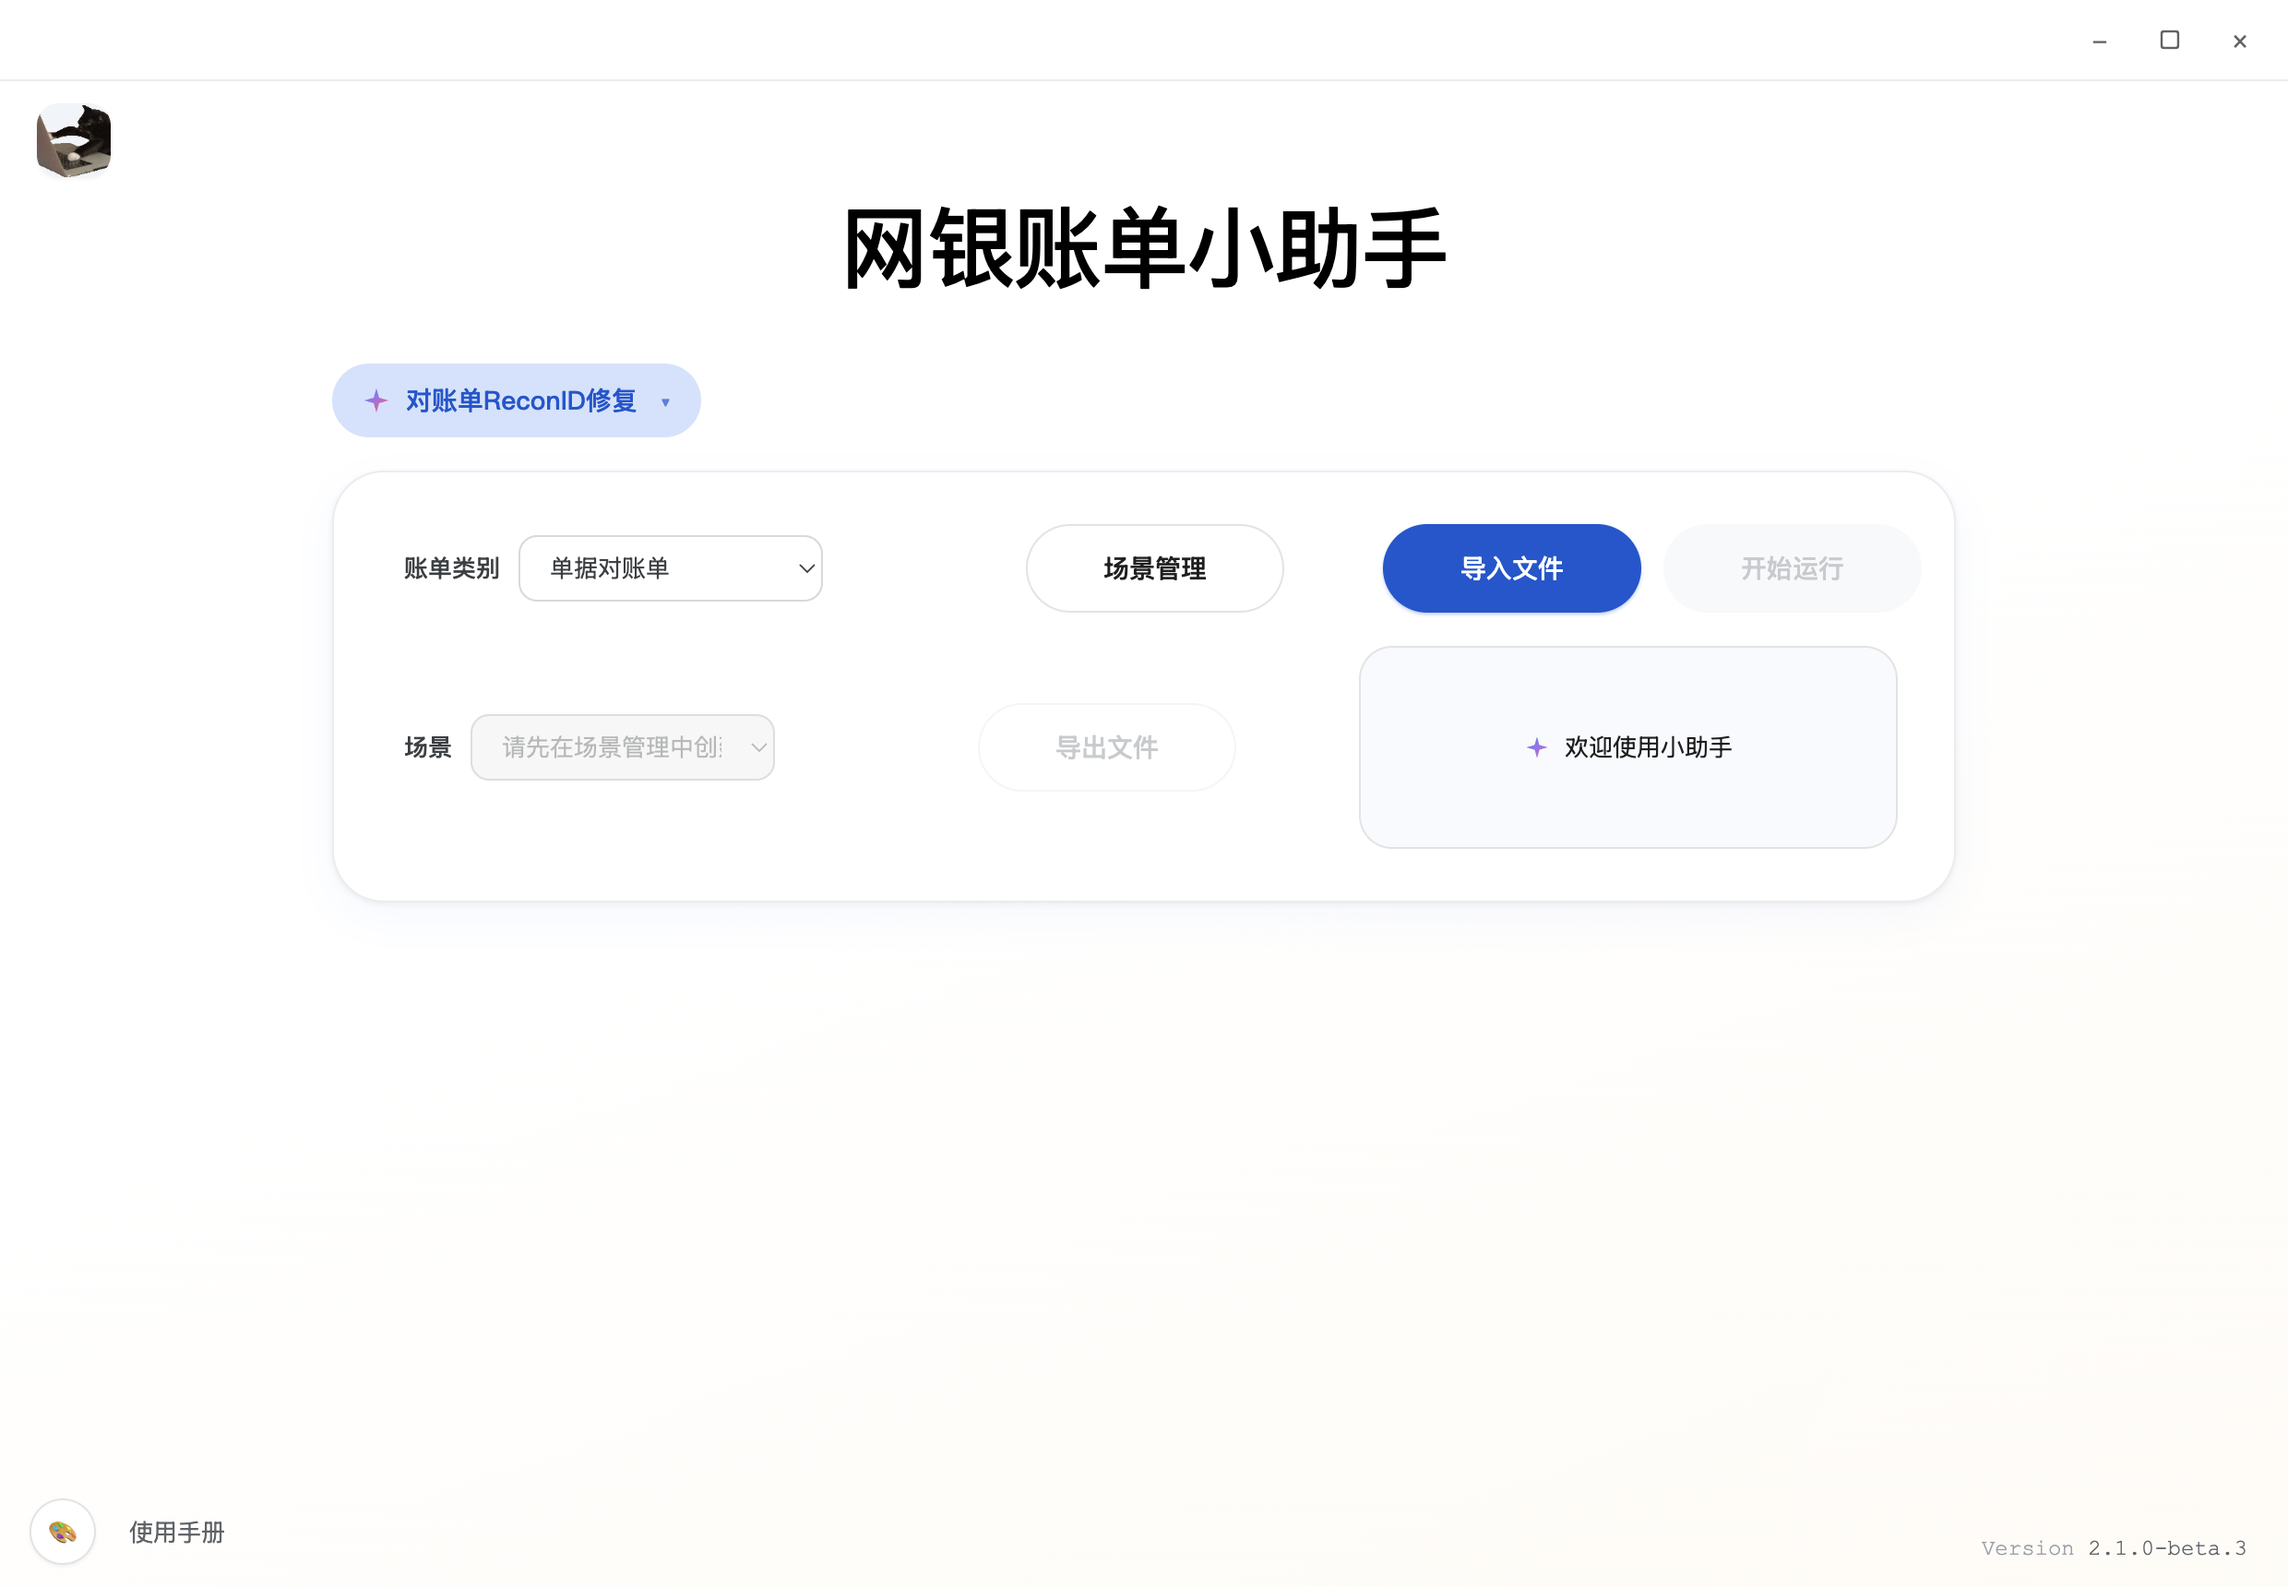
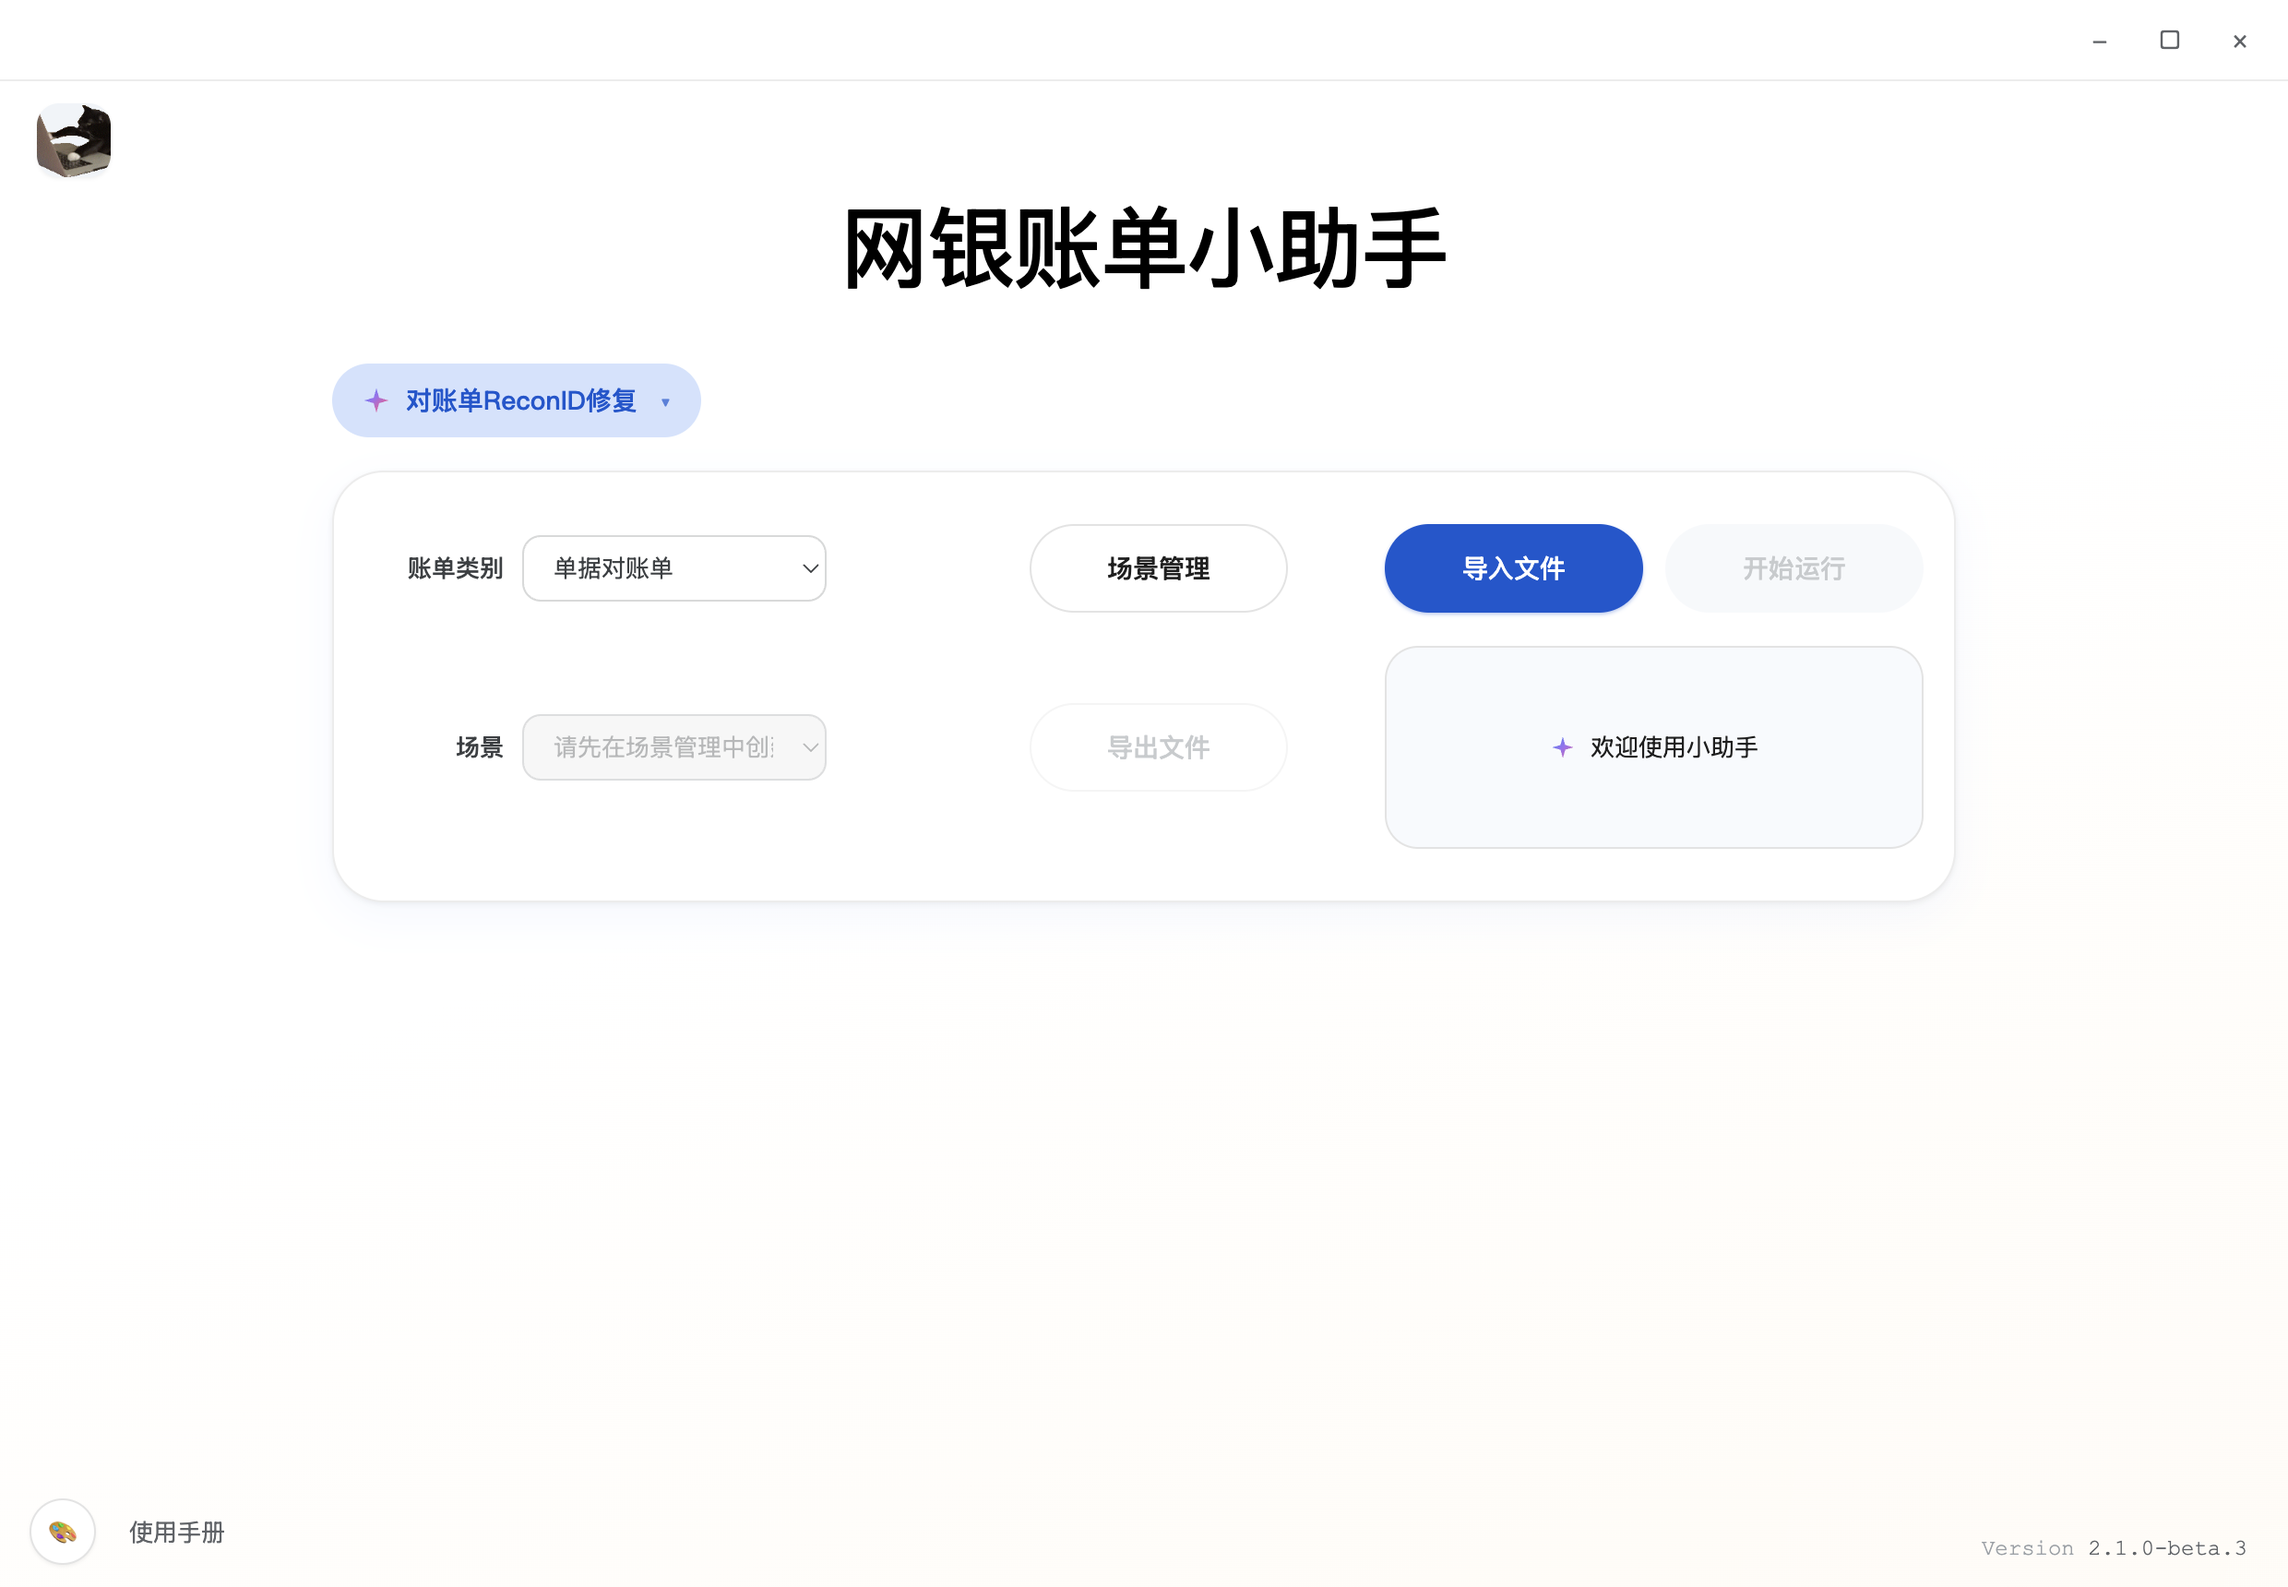
[v2.1.0-beta.3] fix(t11-feedback-4): grid 3 列严格对齐 — 账单类别/场景下拉右对齐 + 场景管理/导出文件垂直对齐 + 状态框等宽 pending-pair
用户精确对齐反馈：
1) 状态框最左侧 = 导入文件最左侧 / 状态框最右侧 = 开始运行最右侧
2) 导出文件按钮 = 场景管理按钮正下方
3) 场景下拉最右侧 = 账单类别下拉最右侧

修复（styles-gemini-extra.css）：
- .recon-id-fix-bill-category-row / .recon-id-fix-scenario-row：改 display: grid + grid-template-columns: 60px 165px 140px（label / 下拉 / 按钮）+ column-gap 10px → 行 1 / 行 2 三列严格垂直对齐（label 宽度差异不再引起内部偏移）
- .recon-id-fix-bill-category-label / .recon-id-fix-scenario-label：text-align: right（label 文字贴 column 右边界）→ 下拉 column 左边界一致 + 下拉宽度 165px → 右边界一致
- .recon-id-fix-board .pending-action-pair：显式 width 292px（与 #reconIdFixStatusBox 一致）→ cell.right 内两者左右边界完全相同 + transform 74px 同步右移

preview 重跑 3 张主面板：三态视觉完全一致；账单类别下拉与场景下拉右对齐 ✓；场景管理与导出文件严格垂直对齐 ✓；状态框宽度 = pending-pair = 292px → 左右边界对齐导入运行 ✓
回归：npm run smoke 14 子套全绿

diff --git a/src/styles-gemini-extra.css b/src/styles-gemini-extra.css
@@ -903,19 +903,20 @@ tr.add-row .text-action:hover { background: #c2d7fa; }
   flex-wrap: nowrap;
 }
 /* v2.1.0-beta.2 PR-B（task B1）：行 1 左 cell 内 [场景下拉 + 场景管理] 横向排列，对齐银行对账单模块
-   v2.1.0-beta.3 T3：场景行下移至行 2，多了 #reconIdFixExportBtn 子元素，flex 自动自适应 */
+   v2.1.0-beta.3 T3：场景行下移至行 2，多了 #reconIdFixExportBtn 子元素
+   v2.1.0-beta.3 修订（用户精确对齐反馈）：改用 grid 3 列布局（60 / 165 / 140），让行 1 [账单类别+下拉+场景管理]
+   与行 2 [场景+下拉+导出文件] 三列严格垂直对齐——避免 label 宽度差异（"账单类别"4字 vs "场景"2字）引起内部偏移 */
 .recon-id-fix-board .recon-id-fix-scenario-row {
-  display: flex;
-  gap: 10px;
+  display: grid;
+  grid-template-columns: 60px 165px 140px;
+  column-gap: 10px;
   align-items: center;
-  justify-content: center;
-  flex-wrap: nowrap;
 }
 .recon-id-fix-board .recon-id-fix-scenario-label {
   font-size: 13px;
   font-weight: 500;
   color: #3c4043;
-  margin-left: 6px;
+  text-align: right;
   white-space: nowrap;
 }
 .recon-id-fix-board .recon-id-fix-scenario-select {
@@ -942,19 +943,19 @@ tr.add-row .text-action:hover { background: #c2d7fa; }
 }
 
 /* v2.1.0-beta.3 T3：新增"账单类别"下拉行（行 1 左 cell，位置 = 原"场景"位置）
-   样式风格与 .recon-id-fix-scenario-* 对齐，保持视觉一致 */
+   样式风格与 .recon-id-fix-scenario-* 对齐，保持视觉一致
+   v2.1.0-beta.3 修订（用户精确对齐反馈）：同样改用 grid 3 列布局（60 / 165 / 140），让行 1 与行 2 严格垂直对齐 */
 .recon-id-fix-board .recon-id-fix-bill-category-row {
-  display: flex;
-  gap: 10px;
+  display: grid;
+  grid-template-columns: 60px 165px 140px;
+  column-gap: 10px;
   align-items: center;
-  justify-content: center;
-  flex-wrap: nowrap;
 }
 .recon-id-fix-board .recon-id-fix-bill-category-label {
   font-size: 13px;
   font-weight: 500;
   color: #3c4043;
-  margin-left: 6px;
+  text-align: right;
   white-space: nowrap;
 }
 .recon-id-fix-board .recon-id-fix-bill-category-select {
@@ -981,10 +982,15 @@ tr.add-row .text-action:hover { background: #c2d7fa; }
 
 /* v2.1.0-beta.2 PR-A Round 3 v2（task R3-3）：状态框宽度 = pending-action-pair 宽度（2 * 140 + gap 12 = 292px）
    cell.right 居中保持不变 → statusBox 居中后左右边界自然 = 导入文件左 / 开始运行右
-   global * { box-sizing: border-box }，width 含 padding + border */
+   global * { box-sizing: border-box }，width 含 padding + border
+   v2.1.0-beta.3 修订（用户精确对齐反馈）：显式给 pending-action-pair 强制 width 292px，
+   防止 flex 容器内容撑开宽度浮动；确保 statusBox 与 pending-action-pair 在 cell.right 内左右边界完全一致 */
 .recon-id-fix-board #reconIdFixStatusBox {
   width: 292px;
   max-width: 292px;
+}
+.recon-id-fix-board .pending-action-pair {
+  width: 292px;
 }
 
 /* v2.1.0-beta.2 PR-A Round 3 v2（task R3-4）：
